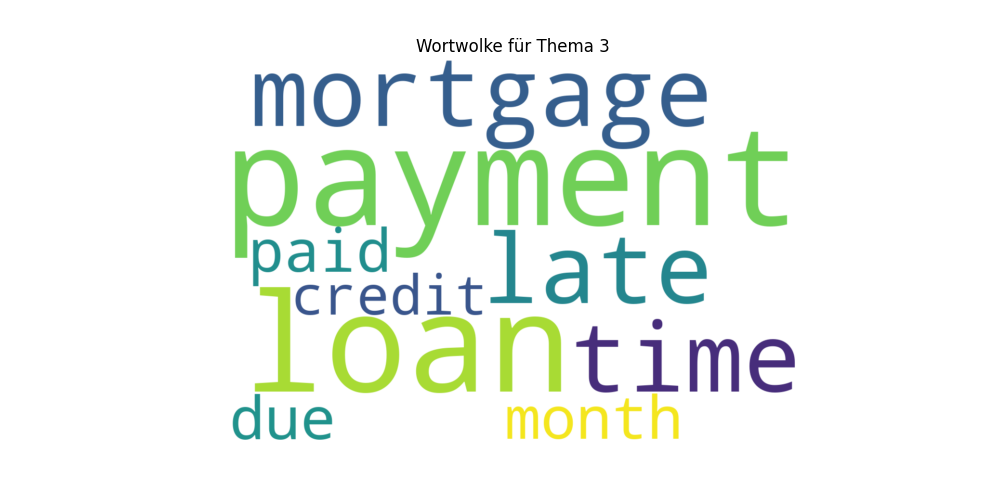
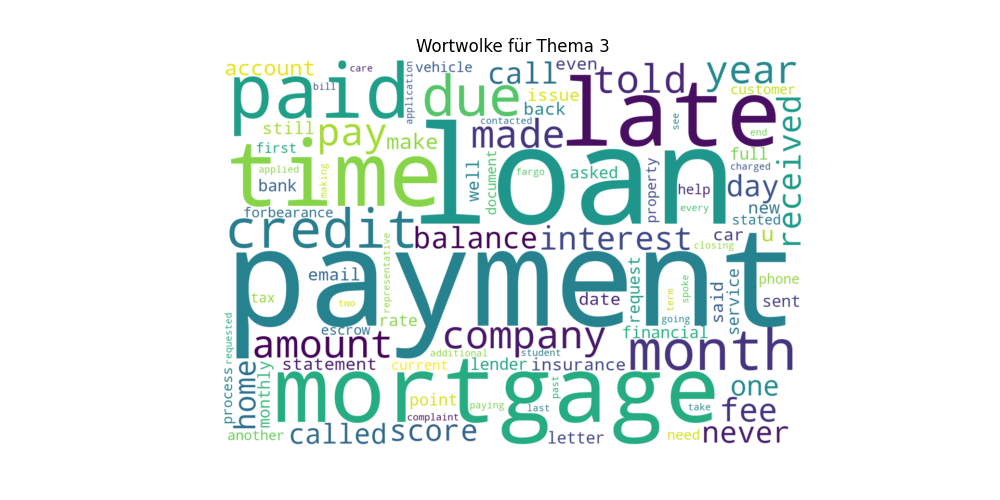
changed topn value
needed more words in the LDA wordcloud for better comparison

Changed region(s): [[0.217, 0.12, 0.806, 0.9]]

diff --git a/src/main.py b/src/main.py
@@ -119,7 +119,7 @@ def main():
     # Funktion zum generieren von Wortwolken (LDA)
     def save_word_cloud_gensim(model, num_topics):
         for topic_idx in range(num_topics):
-            top_words = [word for word, prob in model.show_topic(topic_idx, topn=10)]
+            top_words = [word for word, prob in model.show_topic(topic_idx, topn=100)]
             top_words_str = " ".join(top_words)
             wordcloud = WordCloud(width=1200, height=800, background_color='white').generate(top_words_str)
             plt.figure(figsize=(10, 5))
